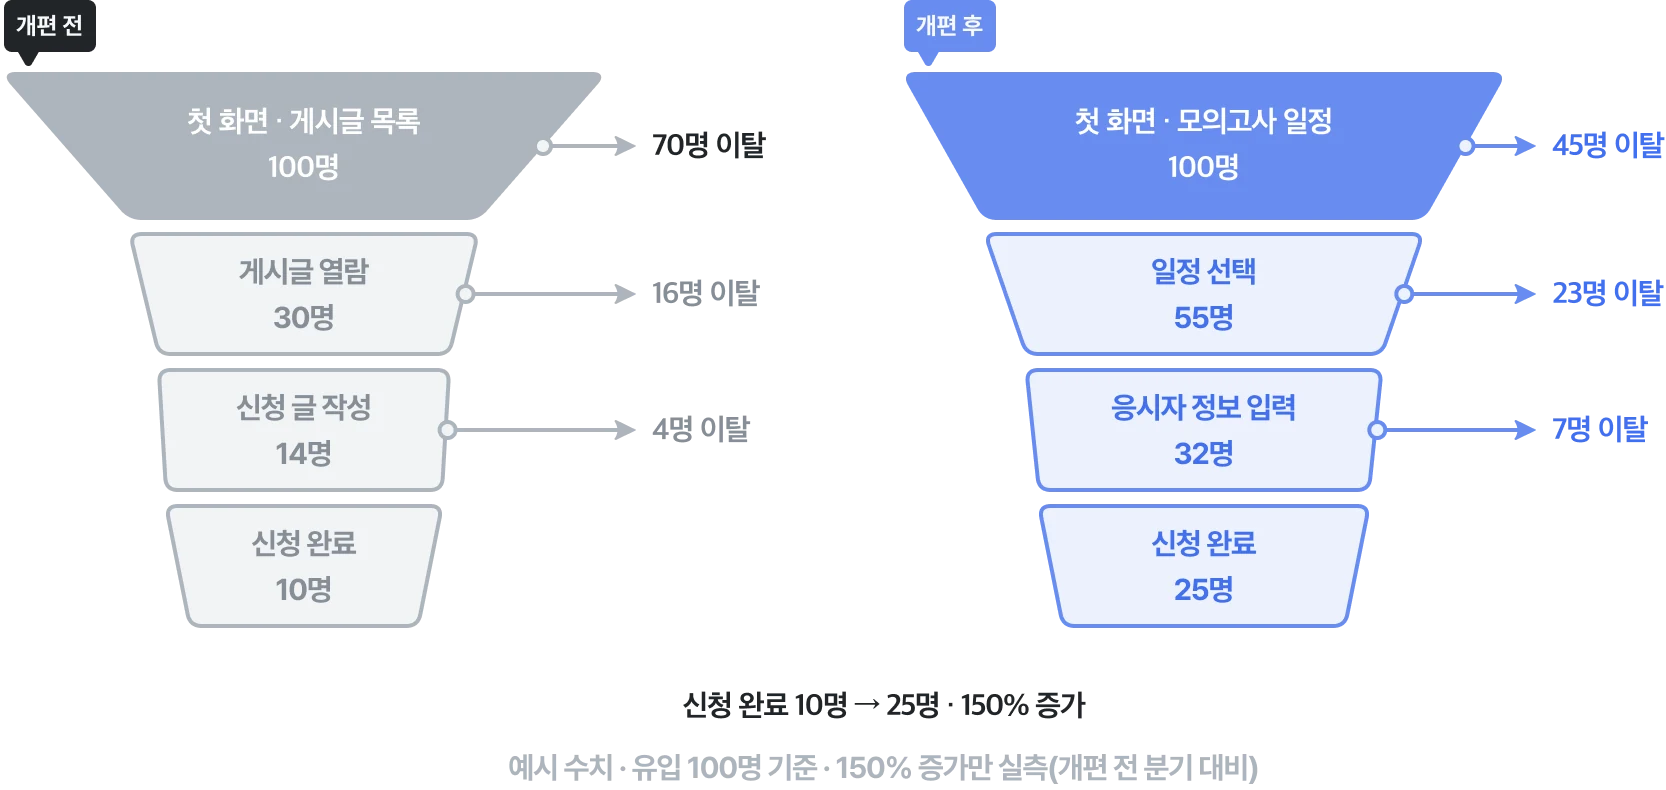
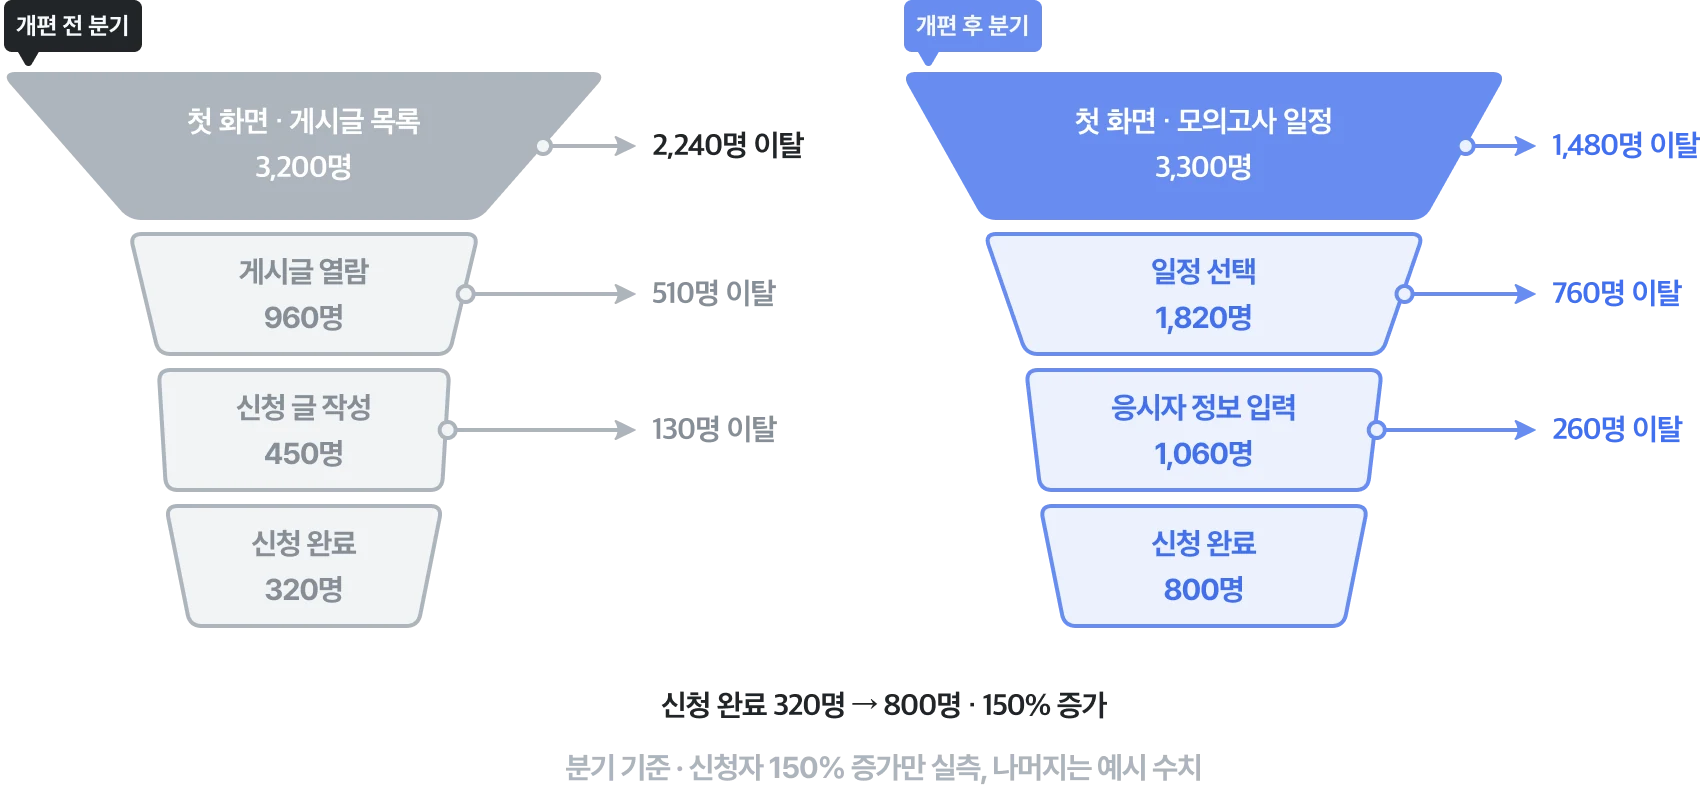
이디엠 02 — 퍼널 수치를 분기 기준으로(예시): 개편 전 3,200 → 960 → 450 → 320, 개편 후 3,300 → 1,820 → 1,060 → 800
실측 150% 증가에 맞춤(320 → 800명). 도식에 예시 수치라고 적었고 본문에는 쓰지 않는다.

diff --git a/resources/data/projects.php b/resources/data/projects.php
@@ -442,9 +442,9 @@ return [
                         ]],
                     ]],
                     ['title' => '문제 정의', 'items' => [
-                        // 퍼널 도식 — tools/figma-export-plugin/tasks/edm.py funnel() · funnel_compare(). ⚠ 수치는 예시(유입 100명 기준) — 경력기술서에 단계별 수치가 없어
-                        //   사용자가 「비율 예시」 를 고르고 「알아서 넣어줘」 했다(2026-09-27). 실측은 신청자 150% 증가뿐이라 신청 완료를 10 → 25 명으로 맞췄다. 본문에는 예시 수치를 사실처럼 쓰지 않는다.
-                                                ['image' => ['src' => 'images/projects/edm-ielts-funnel.webp', 'width' => 1460, 'height' => 800, 'max' => 730, 'plain' => true, 'alt' => '개편 전 모의고사 접수 퍼널, 예시 수치(유입 100명 기준). 첫 화면 · 게시글 목록 100명 중 70명이 신청 방법이 보이지 않아 게시글 목록에서 바로 나갔다(이탈 집중). 게시글 열람 30명 중 16명 이탈(다른 사람의 글을 열어 적는 방식을 확인), 신청 글 작성 14명 중 4명 이탈(정해진 양식 없이 자유롭게 작성), 신청 완료 10명(관리자가 글을 옮겨 적어 명단에 반영).', 'caption' => '개편 전 모의고사 접수 퍼널']],
+                        // 퍼널 도식 — tools/figma-export-plugin/tasks/edm.py funnel() · funnel_compare(). ⚠ 수치는 예시(분기 기준) — 경력기술서에 단계별 수치가 없어
+                        //   사용자가 「알아서 넣어줘」 → 「분기 기준으로」 했다(2026-09-27). 실측은 신청자 150% 증가뿐이라 신청 완료를 분기 320 → 800 명으로 맞췄다. 본문에는 예시 수치를 사실처럼 쓰지 않는다.
+                                                ['image' => ['src' => 'images/projects/edm-ielts-funnel.webp', 'width' => 1460, 'height' => 800, 'max' => 730, 'plain' => true, 'alt' => '개편 전 분기 모의고사 접수 퍼널, 예시 수치. 첫 화면 · 게시글 목록 3,200명 중 2,240명이 신청 방법이 보이지 않아 게시글 목록에서 바로 나갔다(이탈 집중). 게시글 열람 960명 중 510명 이탈(다른 사람의 글을 열어 적는 방식을 확인), 신청 글 작성 450명 중 130명 이탈(정해진 양식 없이 자유롭게 작성), 신청 완료 320명(관리자가 글을 옮겨 적어 명단에 반영).', 'caption' => '개편 전 모의고사 접수 퍼널']],
                         ['label' => null, 'text' => '모의고사 접수 기간이 되면 신청 사이트로 들어오는 사람은 크게 늘었지만, 신청으로 이어지는 사람은 그만큼 늘지 않았습니다. 그래서 접수 기간의 트래픽을 퍼널로 나눠 봤습니다. 첫 화면인 게시글 목록에 들어와 다른 사람의 글을 열어 신청 방법을 확인하고, 신청 글을 작성해 등록하기까지를 단계별로 보니 이탈은 첫 화면에 몰려 있었습니다. 많은 사용자가 게시글 목록만 보고 바로 나갔습니다.'],
                         ['label' => null, 'text' => '원인은 첫 화면이 게시판이라는 데 있었습니다. 기존 모의고사 신청 사이트는 익명 게시판 형태로 운영돼서, 처음 들어온 사람이 보는 건 다른 사람들이 남긴 신청 글 목록이었습니다. 어떻게 신청하는지, 글에 무엇을 적어야 하는지는 다른 사람의 글을 몇 개 열어 보고서야 알 수 있었습니다.'],
                         ['label' => null, 'text' => '운영도 비효율적이었습니다. 신청 글은 사람마다 적는 방식이 제각각이라, 관리자는 글을 하나씩 열어 이름과 연락처, 응시 일정을 명단으로 옮겨 적어야 했습니다. 손으로 옮기는 만큼 빠지거나 잘못 적히는 정보도 생길 수 있었습니다.'],
@@ -459,7 +459,7 @@ return [
                         ['label' => null, 'text' => '신청을 마치면 접수 완료 화면에서 신청한 일정과 정보를 다시 보여 주었습니다. 게시판에서는 글을 남긴 뒤에도 신청이 제대로 됐는지 알 수 없었기 때문입니다.'],
                     ]],
                     ['title' => '결과', 'items' => [
-                        ['image' => ['src' => 'images/projects/edm-ielts-funnel-compare.webp', 'width' => 1666, 'height' => 790, 'max' => 833, 'plain' => true, 'alt' => '개편 전후 모의고사 접수 퍼널, 예시 수치(유입 100명 기준). 개편 전은 첫 화면 · 게시글 목록 100명에서 70명 이탈, 게시글 열람 30명에서 16명 이탈, 신청 글 작성 14명에서 4명 이탈, 신청 완료 10명. 개편 후는 첫 화면 · 모의고사 일정 100명에서 45명 이탈, 일정 선택 55명에서 23명 이탈, 응시자 정보 입력 32명에서 7명 이탈, 신청 완료 25명. 신청 완료가 10명에서 25명으로 150% 늘었다(실측은 150% 증가만).', 'caption' => '개편 전후 모의고사 접수 퍼널']],
+                        ['image' => ['src' => 'images/projects/edm-ielts-funnel-compare.webp', 'width' => 1702, 'height' => 790, 'max' => 851, 'plain' => true, 'alt' => '개편 전후 분기 모의고사 접수 퍼널, 예시 수치. 개편 전 분기는 첫 화면 · 게시글 목록 3,200명에서 2,240명 이탈, 게시글 열람 960명에서 510명 이탈, 신청 글 작성 450명에서 130명 이탈, 신청 완료 320명. 개편 후 분기는 첫 화면 · 모의고사 일정 3,300명에서 1,480명 이탈, 일정 선택 1,820명에서 760명 이탈, 응시자 정보 입력 1,060명에서 260명 이탈, 신청 완료 800명. 신청 완료가 320명에서 800명으로 150% 늘었다(실측은 150% 증가만).', 'caption' => '개편 전후 모의고사 접수 퍼널']],
                         ['label' => null, 'text' => '개편 뒤 모의고사 신청자 수가 <strong>개편 전 분기보다 150% 늘었습니다</strong>. 신청 허들을 낮추면 전환율이 오른다는 가설대로였습니다.'],
                         ['table' => ['headers' => ['구분', '개편 전', '개편 후'], 'rows' => [
                             ['첫 화면', '다른 사람의 신청 글 목록', '모의고사 일정과 신청 시작'],

diff --git a/tools/figma-export-plugin/tasks/edm.py b/tools/figma-export-plugin/tasks/edm.py
@@ -114,10 +114,10 @@ def _pill(f, x, y_top, s, bg='#212529'):
                     'color': '#F8F9FA', 'bg': bg, 'padX': 6, 'padY': 2, 'radius': 4})
     f.items.append({'type': 'svg', 'name': '꼬리', 'x': x + 7, 'y': y_top - 4 - 7, 'svg': TAIL.replace('#212529', bg)})
 
-# 퍼널 예시 수치 — 경력기술서에 단계별 수치가 없어 사용자가 「비율 예시」 를 골랐다(2026-09-27). 유입 100명 기준.
-#   실측은 「개편 전 분기 대비 신청자 150% 증가」 하나 — 신청 완료를 10 → 25 명으로 맞췄다. 도식 · 캡션에 예시라고 적는다.
-BEFORE = [('첫 화면 · 게시글 목록', 100), ('게시글 열람', 30), ('신청 글 작성', 14), ('신청 완료', 10)]
-AFTER = [('첫 화면 · 모의고사 일정', 100), ('일정 선택', 55), ('응시자 정보 입력', 32), ('신청 완료', 25)]
+# 퍼널 예시 수치 — 경력기술서에 단계별 수치가 없어 사용자가 정하게 했다(「알아서 넣어줘」 → 「분기 기준으로」, 2026-09-27).
+#   실측은 「개편 전 분기 대비 신청자 150% 증가」 하나 — 신청 완료를 320 → 800 명으로 맞췄다. 도식에 예시라고 적는다.
+BEFORE = [('첫 화면 · 게시글 목록', 3200), ('게시글 열람', 960), ('신청 글 작성', 450), ('신청 완료', 320)]
+AFTER = [('첫 화면 · 모의고사 일정', 3300), ('일정 선택', 1820), ('응시자 정보 입력', 1060), ('신청 완료', 800)]
 
 def funnel():
     """개편 전 모의고사 접수 퍼널 — 1:1 로 보이는 도식(글자 15 · 선 2). 층마다 인원, 오른쪽에 빠져나간 인원과 이유."""
@@ -128,40 +128,40 @@ def funnel():
            ['정해진 양식 없이 자유롭게 작성'], ['관리자가 글을 옮겨 적어 명단에 반영']]
     f.items.append(text(CX - 110, ['접수 기간 유입'], PRE, NOTE, cy=16, w=220, align='CENTER'))
     for i, ((y, h, tw, bw), (name, c)) in enumerate(zip(geo, BEFORE)):
-        _layer(f, CX, y, h, tw, bw, [name, f'{c}명'], i == 0)
+        _layer(f, CX, y, h, tw, bw, [name, f'{c:,}명'], i == 0)
         cy = y + h / 2; edge = CX + (tw + bw) / 4
         if i == 0:                        # 첫 화면 — 이탈이 몰린 곳
             f.line([(edge + 1, cy), (AX - 12, cy)], k=0.5)
-            f.items.append(text(AX, [f'첫 화면에서 {c - BEFORE[1][1]}명 이탈'], SD, '#212529', cy=cy))
+            f.items.append(text(AX, [f'첫 화면에서 {c - BEFORE[1][1]:,}명 이탈'], SD, '#212529', cy=cy))
             f.items.append(text(AX, why[0], PRE, NOTE, y=cy + 11.5 + 6))
             _pill(f, AX, cy - 11.5, '이탈 집중')
         elif i < 3:                       # 다음 단계로 못 간 인원 + 이유
             f.items.append({'type': 'line', 'name': '점선', 'x': edge + 8, 'y': cy - 11.5, 'w': AX - 12 - edge - 8, 'color': NOTE, 'weight': 1.5, 'dash': [4, 4]})
-            f.items.append(text(AX, [f'{c - BEFORE[i + 1][1]}명 이탈'], SD, MUTED_INK, cy=cy - 11.5))
+            f.items.append(text(AX, [f'{c - BEFORE[i + 1][1]:,}명 이탈'], SD, MUTED_INK, cy=cy - 11.5))
             f.items.append(text(AX, why[i], PRE, NOTE, cy=cy + 11.5))
         else:                             # 신청 완료
             f.items.append({'type': 'line', 'name': '점선', 'x': edge + 8, 'y': cy, 'w': AX - 12 - edge - 8, 'color': NOTE, 'weight': 1.5, 'dash': [4, 4]})
             f.items.append(text(AX, why[i], PRE, NOTE, cy=cy))
-    f.items.append(text(0, ['예시 수치 · 유입 100명 기준'], PRE, NOTE, y=294 + 64 + 24))
+    f.items.append(text(0, ['개편 전 분기 기준 · 예시 수치'], PRE, NOTE, y=294 + 64 + 24))
     return f
 
 def funnel_compare():
-    """개편 전후 모의고사 접수 퍼널을 나란히 — 예시 수치(유입 100명 기준). 층 폭은 인원에 맞춰 좁아진다."""
+    """개편 전후 분기 모의고사 접수 퍼널을 나란히 — 예시 수치(분기 기준). 층 폭은 유입 대비 비율에 맞춰 좁아진다."""
     f = Flow()
-    wid = lambda c: 120 + 180 * c / 100
     ys = [(40, 72), (120, 60), (188, 60), (256, 60)]
-    for cx, muted, tag, st in ((150, True, '개편 전', BEFORE), (600, False, '개편 후', AFTER)):
+    for cx, muted, tag, st in ((150, True, '개편 전 분기', BEFORE), (600, False, '개편 후 분기', AFTER)):
+        wid = lambda c, top=st[0][1]: 120 + 180 * c / top
         for i, ((name, c), (y, h)) in enumerate(zip(st, ys)):
             tw = wid(c); bw = wid(st[i + 1][1]) if i + 1 < len(st) else tw - 24
-            _layer(f, cx, y, h, tw, bw, [name, f'{c}명'], i == 0, muted)
+            _layer(f, cx, y, h, tw, bw, [name, f'{c:,}명'], i == 0, muted)
             if i + 1 < len(st):
                 cy = y + h / 2; edge = cx + (tw + bw) / 4; lx = cx + 174
                 f.line([(edge + 1, cy), (lx - 8, cy)], muted=muted, k=0.5)
                 ink = '#212529' if (muted and i == 0) else (MUTED_INK if muted else TEXT_BLUE)
-                f.items.append(text(lx, [f'{c - st[i + 1][1]}명 이탈'], SD, ink, cy=cy))
+                f.items.append(text(lx, [f'{c - st[i + 1][1]:,}명 이탈'], SD, ink, cy=cy))
         _pill(f, cx - 150, 40, tag, '#212529' if muted else BLUE)
-    f.items.append(text(220, [f'신청 완료 {BEFORE[-1][1]}명 → {AFTER[-1][1]}명 · 150% 증가'], SD, '#212529', cy=356, w=440, align='CENTER'))
-    f.items.append(text(170, ['예시 수치 · 유입 100명 기준 · 150% 증가만 실측(개편 전 분기 대비)'], PRE, NOTE, cy=386, w=540, align='CENTER'))
+    f.items.append(text(220, [f'신청 완료 {BEFORE[-1][1]:,}명 → {AFTER[-1][1]:,}명 · 150% 증가'], SD, '#212529', cy=356, w=440, align='CENTER'))
+    f.items.append(text(170, ['분기 기준 · 신청자 150% 증가만 실측, 나머지는 예시 수치'], PRE, NOTE, cy=386, w=540, align='CENTER'))
     return f
 
 def draws():
